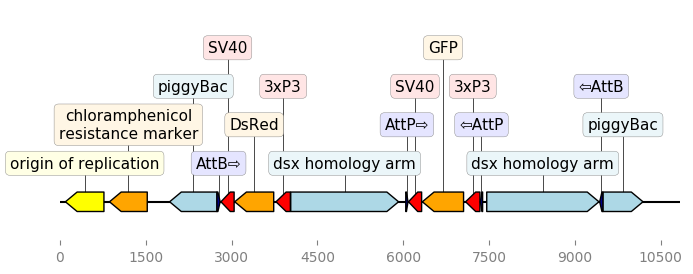
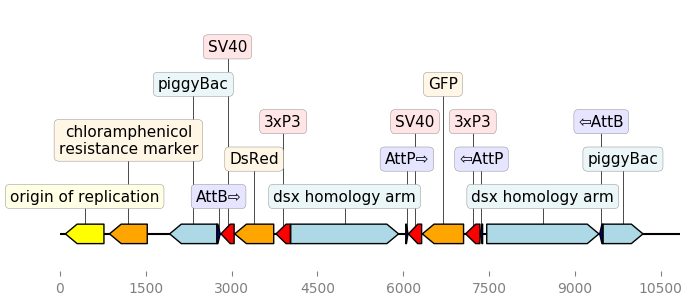
Improved multi-line label collision computation, added local highlight example

diff --git a/dna_features_viewer/compute_features_levels.py b/dna_features_viewer/compute_features_levels.py
@@ -47,33 +47,35 @@ def compute_features_levels(features):
     ]
     graph = Graph(features, edges)
     levels = {
-        n: None if "fixed_level" not in n.data else n.data["fixed_level"]
+        n: n.data.get("fixed_level", None)
         for n in graph.nodes
     }
 
     def collision(base_level, node):
         """Return whether the node placed at base_level collides with its
         neighbors in the graph."""
+        line_factor = 0.5
+        nlines = node.data.get("nlines", 1) 
+        node_top = base_level + line_factor * nlines
+        node_bottom = base_level - line_factor * nlines
         for neighbor in graph.neighbors[node]:
             level = levels[neighbor]
             if level is None:
                 continue
-            if "nlines" in neighbor.data:
-                top = math.ceil(level + 0.5 * neighbor.data["nlines"])
-                if level <= base_level < top:
-                    return True
-
-                top = math.ceil(base_level + 0.5 * node.data["nlines"])
-                if base_level <= level < top:
-                    return True
-            else:
-                if level == base_level:
-                    return True
+            nlines = neighbor.data.get("nlines", 1) 
+            neighbor_top = level + line_factor * nlines
+            neighbor_bottom = level - line_factor * nlines
+            up_collision = node_bottom <= neighbor_bottom < node_top
+            down_collision = neighbor_bottom <= node_bottom < neighbor_top
+            if up_collision or down_collision:
+                return True
         return False
 
     for node in sorted(graph.nodes, key=lambda f: -f.length):
+        if levels[node] is not None:
+            continue
         base_level = 0
         while collision(base_level, node):
-            base_level += 1
+            base_level += 0.5
         levels[node] = base_level
     return levels

diff --git a/dna_features_viewer/GraphicRecord/MatplotlibPlottableMixin.py b/dna_features_viewer/GraphicRecord/MatplotlibPlottableMixin.py
@@ -476,10 +476,15 @@ class MatplotlibPlottableMixin:
         # graphic feature. Or at the same levels as the graphic features (
         # every annotation above its respective feature, but some annotations
         # can be below some features).
-        
-        
+
         if elevate_outline_annotations:
-            base_feature = GraphicFeature(start=0, end=self.sequence_length, level=-2, nlines=1, is_base=True)
+            base_feature = GraphicFeature(
+                start=0,
+                end=self.sequence_length,
+                fixed_level=0,
+                nlines=1,
+                is_base=True,
+            )
             overflowing_annotations.append(base_feature)
             annotations_levels = compute_features_levels(
                 overflowing_annotations
@@ -503,7 +508,7 @@ class MatplotlibPlottableMixin:
             text = feature.data["text"]
             x, y = text.get_position()
             if elevate_outline_annotations:
-                new_y = (max_level + 1) * self.feature_level_height + (
+                new_y = (max_level) * self.feature_level_height + (
                     level
                 ) * annotation_height
             else:
@@ -701,12 +706,14 @@ def change_luminosity(
     """
     r, g, b = colorConverter.to_rgb(color)
     h, l, s = colorsys.rgb_to_hls(r, g, b)
+    new_l = l
     if luminosity is not None:
         new_l = luminosity
-    if min_luminosity is not None:
-        new_l = max(l, min_luminosity)
-    else:
+    if factor is not None:
         new_l = l ** (-factor)
+    if min_luminosity is not None:
+        new_l = max(new_l, min_luminosity)
+    
     return colorsys.hls_to_rgb(h, new_l, s)
 
 

diff --git a/examples/locally_highlighted_record.py b/examples/locally_highlighted_record.py
@@ -1,0 +1,20 @@
+from dna_features_viewer import BiopythonTranslator
+
+start, end = 1300, 2700
+
+
+def feature_properties(f):
+    """Fade away all features not overlapping with [start, end]"""
+    if f.location.end < start or f.location.start > end:
+        return dict(color="white", linecolor="grey", label=None)
+    return {}
+
+
+translator = BiopythonTranslator(features_properties=feature_properties)
+graphic_record = translator.translate_record("./example_sequence.gb")
+ax, _ = graphic_record.plot(figure_width=12, elevate_outline_annotations=True)
+ax.fill_between(
+    [start, end], -10, 10, facecolor="peachpuff", alpha=0.2, zorder=-1
+)
+
+ax.figure.savefig('locally_highlighted_record.png', bbox_inches='tight')

diff --git a/dna_features_viewer/CircularGraphicRecord/CircularGraphicRecord.py b/dna_features_viewer/CircularGraphicRecord/CircularGraphicRecord.py
@@ -167,4 +167,4 @@ class CircularGraphicRecord(GraphicRecord):
         ""
         ax_width = ax.get_window_extent(ax.figure.canvas.get_renderer()).width
         xmin, xmax = ax.get_xlim()
-        return 2 * self.labels_spacing * (xmax - xmin) / (1.0 * ax_width)
+        return 3 * self.labels_spacing * (xmax - xmin) / (1.0 * ax_width)

diff --git a/README.rst b/README.rst
@@ -161,7 +161,7 @@ DnaFeaturesViewer plays nice with BioPython. As a result it is super easy to plo
 Note 1: the script uses ``strand_in_label_threshold=7`` to indicate the strand with
 an arrow in the annotation text for every feature less than ~7 pixels in width.
 
-Note 2: The ``BiopythonTranslator`` class determines how the genbank information is
+Note 2: the ``BiopythonTranslator`` class determines how the genbank information is
 transformed into graphical features. It enables to chose which categories of
 features to plot, the color of the different features.
 
